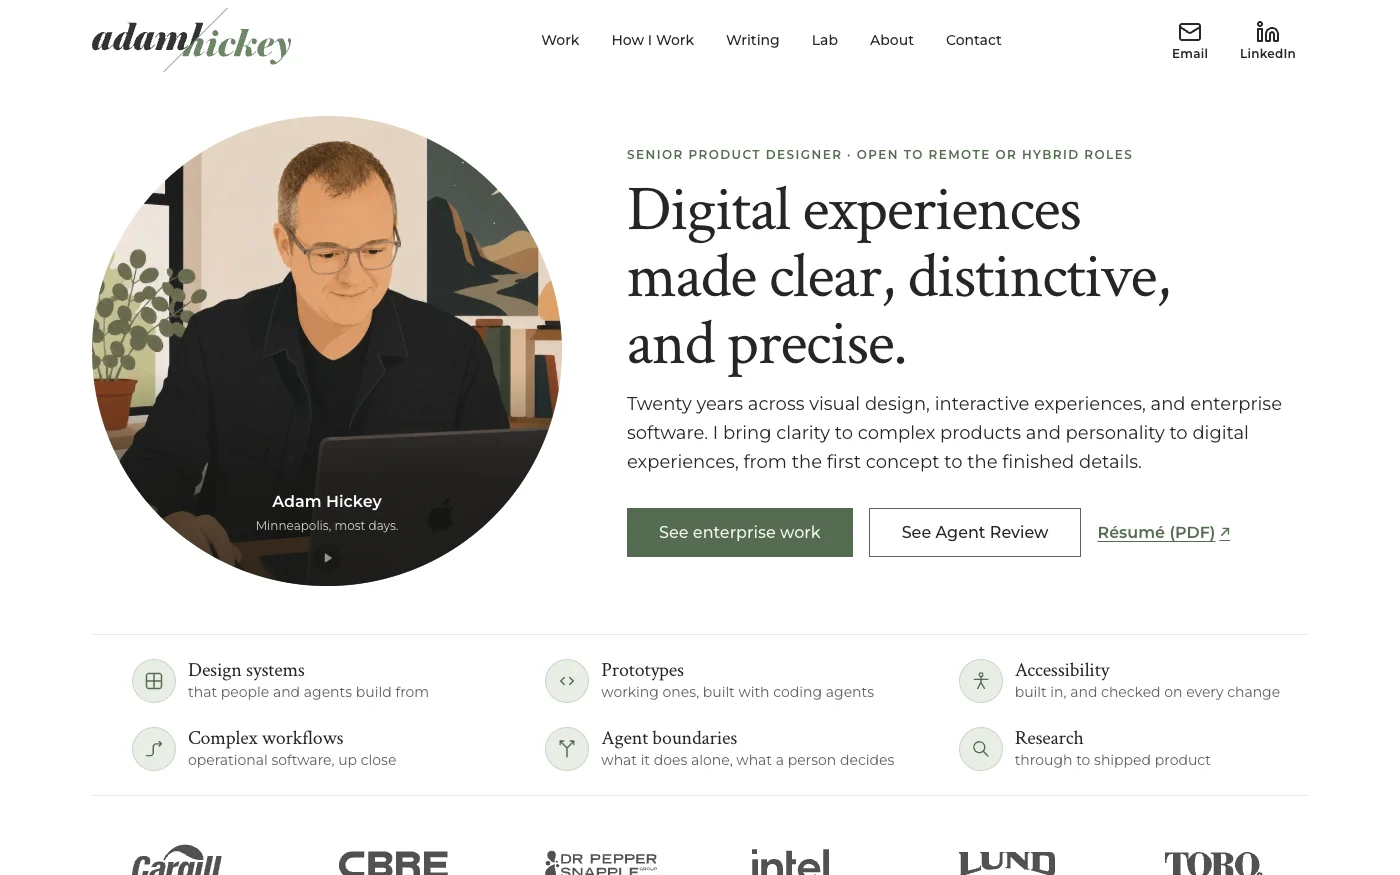
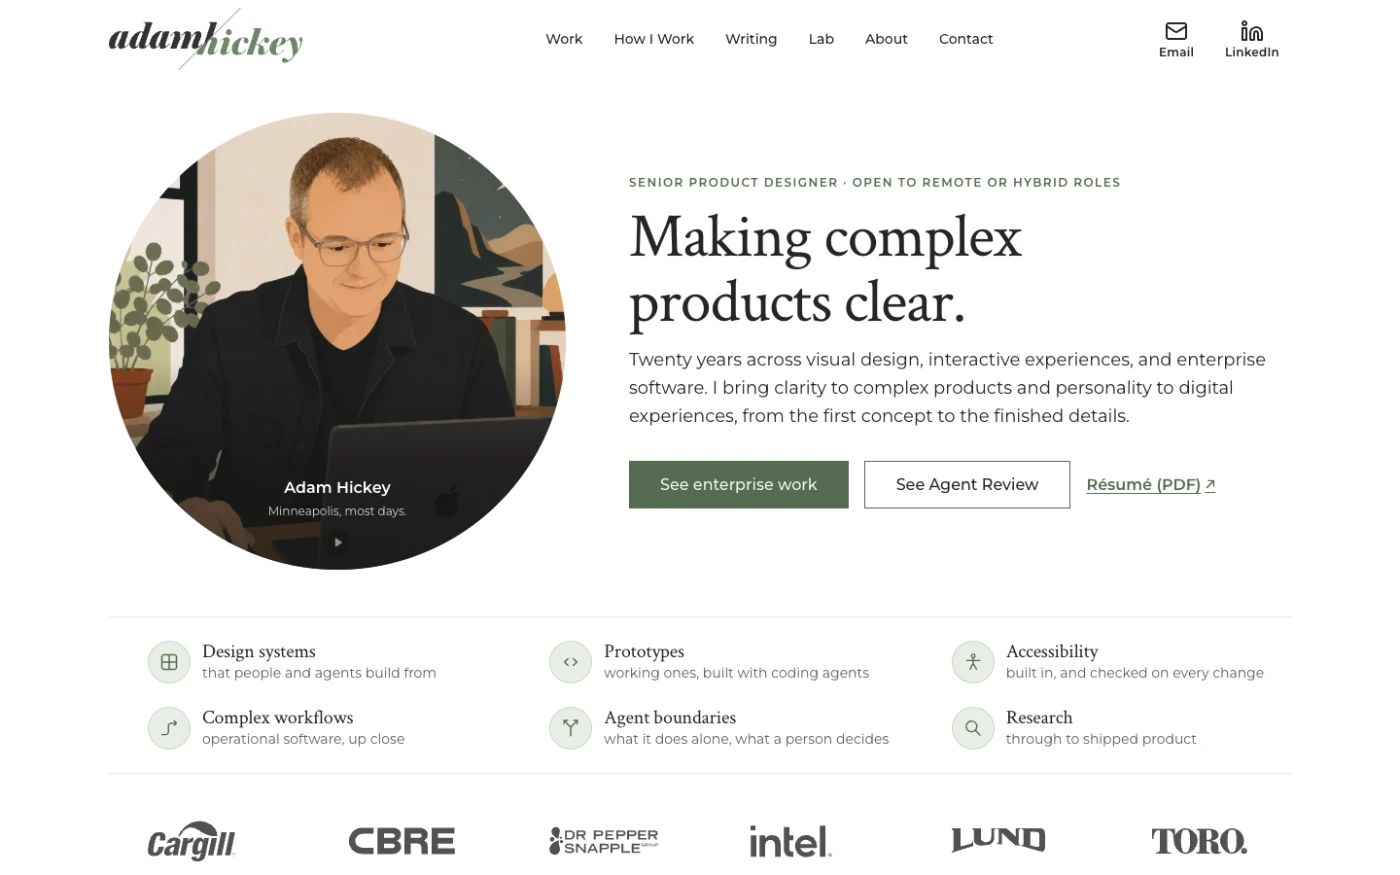
The homepage headline is "Making complex products clear.": it keeps "clear" and names the problem the work solves, where "distinctive, and precise" was what every studio says
The h1, og:description, the index share card in og.mjs and llms.txt's
summary move together. img/site/this-site.webp is retaken the way #473 took
it (1440x900, reduced motion, printed at 1400x875) and its alt text on the
this-site write-up names the new title; og.mjs re-renders the index and
this-site cards that frame it. Busters: this-site.webp ?v=9, og/index.jpg
?v=8, og/this-site.jpg ?v=8.

The fast five and readtime pass; resting and states pass on index.html.

diff --git a/index.html b/index.html
@@ -21,7 +21,7 @@
 
   <meta name="color-scheme" content="light" />
   <meta property="og:title" content="Adam Hickey | Senior Product Designer for Complex Software" />
-  <meta property="og:description" content="Digital experiences made clear, distinctive, and precise. Twenty years across visual design, interactive experiences, and enterprise software: clarity for complex products and personality for digital experiences, from the first concept to the finished details." />
+  <meta property="og:description" content="Making complex products clear. Twenty years across visual design, interactive experiences, and enterprise software: clarity for complex products and personality for digital experiences, from the first concept to the finished details." />
   <meta property="og:type" content="website" />
   <!-- Absolute because scrapers do not resolve a relative og:image, and the
        canonical origin is the production one whichever host is serving this:
@@ -30,7 +30,7 @@
        "How a change reaches the live site". -->
   <link rel="canonical" href="https://adamhickey.com/" />
   <meta property="og:url" content="https://adamhickey.com/" />
-  <meta property="og:image" content="https://adamhickey.com/img/og/index.jpg?v=7" />
+  <meta property="og:image" content="https://adamhickey.com/img/og/index.jpg?v=8" />
   <meta property="og:image:width" content="1200" />
   <meta property="og:image:height" content="630" />
   <meta name="twitter:card" content="summary_large_image" />
@@ -51,7 +51,7 @@
           "jobTitle": "Senior Product Designer",
           "description": "Senior product designer for complex enterprise software, design systems and agentic workflows, who builds what he designs, in Minneapolis.",
           "url": "https://adamhickey.com/",
-          "image": "https://adamhickey.com/img/og/index.jpg?v=7",
+          "image": "https://adamhickey.com/img/og/index.jpg?v=8",
           "email": "mailto:adam@adamhickey.com",
           "address": {
             "@type": "PostalAddress",
@@ -85,7 +85,7 @@
           "name": "Adam Hickey — Product Design",
           "description": "Adam Hickey's independent product design practice in Minneapolis, for complex enterprise software: design systems, modernizing legacy products, and AI product prototypes. Twenty years inside enterprise platforms, design systems, and products that outgrew their original shape.",
           "url": "https://adamhickey.com/",
-          "image": "https://adamhickey.com/img/og/index.jpg?v=7",
+          "image": "https://adamhickey.com/img/og/index.jpg?v=8",
           "founder": {
             "@id": "https://adamhickey.com/#adam"
           },
@@ -391,16 +391,18 @@
                     <!-- THE HEADLINE AND THE DEK SAY THE BREADTH, since 2026-10-26. Adam
                liked the unified direction's pair ("Making digital experiences
                clear, distinctive, and beautifully designed." over a 45-word
-               dek) and asked for it here, shorter. The title keeps its three
-               words in seven: "Digital experiences made clear, distinctive,
-               and precise." The dek is the twenty years across the three
+               dek) and asked for it here, shorter. The title was "Digital
+               experiences made clear, distinctive, and precise." until the
+               same day, when Adam kept "clear" and wanted the rest shorter:
+               "Making complex products clear." names the problem the work
+               solves, where "distinctive" is what every studio says. The dek is the twenty years across the three
                kinds of work, then what he brings to each, in 30 words. The
                agents left the dek: Agent Review keeps the second button and
                the lab card, and the eyebrow still says the title a recruiter
                searches. The share card, og:description and llms.txt's summary
                moved with it; the <title> and description are search language
                and stayed. -->
-<h1 class="hero-title">Digital experiences made clear, distinctive, and precise.</h1>
+<h1 class="hero-title">Making complex products clear.</h1>
           <!-- ONE PARAGRAPH, since 2026-10-09. The thesis came out: "AI is
                changing the shape of product design" is the one sentence on
                the page every reader already believes, and "I'm exploring

diff --git a/case-study/this-site.html b/case-study/this-site.html
@@ -19,7 +19,7 @@
   <meta property="og:url" content="https://adamhickey.com/case-study/this-site.html" />
   <meta property="og:title" content="How I built this site | Adam Hickey" />
   <meta property="og:description" content="How adamhickey.com is built: thirty-eight pages of plain HTML with no framework and no build step, three token files under four normative specs, and eleven checks that measure the rendered page before anything ships." />
-  <meta property="og:image" content="https://adamhickey.com/img/og/this-site.jpg?v=7" />
+  <meta property="og:image" content="https://adamhickey.com/img/og/this-site.jpg?v=8" />
   <meta property="og:image:width" content="1200" />
   <meta property="og:image:height" content="630" />
   <meta name="twitter:card" content="summary_large_image" />
@@ -40,7 +40,7 @@
           "description": "A build write-up for adamhickey.com: thirty-eight pages of plain HTML with no framework and no build step, three token files under four normative specs, and eleven checks that measure the rendered page before anything ships.",
           "url": "https://adamhickey.com/case-study/this-site.html",
           "mainEntityOfPage": "https://adamhickey.com/case-study/this-site.html",
-          "image": "https://adamhickey.com/img/og/this-site.jpg?v=7",
+          "image": "https://adamhickey.com/img/og/this-site.jpg?v=8",
           "datePublished": "2026-09-17",
           "dateModified": "2026-10-26",
           "author": {
@@ -238,8 +238,8 @@
              sits one click away would be the one dishonest picture here. -->
         <figure class="build-shot">
           <div class="build-laptop"><div class="build-laptop-lid">
-              <img src="../img/site/this-site.webp?v=8" width="1400" height="875" fetchpriority="high" decoding="async"
-                   alt="The homepage of this site at laptop width: the wordmark and six section links across the top, the portrait in a circle on the left, and on the right the eyebrow Senior Product Designer &middot; Open to remote or hybrid roles over the title &ldquo;Digital experiences made clear, distinctive, and precise.&rdquo;, a three-line dek beginning &ldquo;Twenty years across visual design, interactive experiences, and enterprise software.&rdquo;, a green See enterprise work button, an outlined See Agent Review button and a R&eacute;sum&eacute; link. Under the pair, six facts in two rows of three, each with a small line icon in a pale disc, among them Agent boundaries, and a row of six client wordmarks along the bottom." />
+              <img src="../img/site/this-site.webp?v=9" width="1400" height="875" fetchpriority="high" decoding="async"
+                   alt="The homepage of this site at laptop width: the wordmark and six section links across the top, the portrait in a circle on the left, and on the right the eyebrow Senior Product Designer &middot; Open to remote or hybrid roles over the title &ldquo;Making complex products clear.&rdquo;, a three-line dek beginning &ldquo;Twenty years across visual design, interactive experiences, and enterprise software.&rdquo;, a green See enterprise work button, an outlined See Agent Review button and a R&eacute;sum&eacute; link. Under the pair, six facts in two rows of three, each with a small line icon in a pale disc, among them Agent boundaries, and a row of six client wordmarks along the bottom." />
             </div></div>
         </figure>
 
